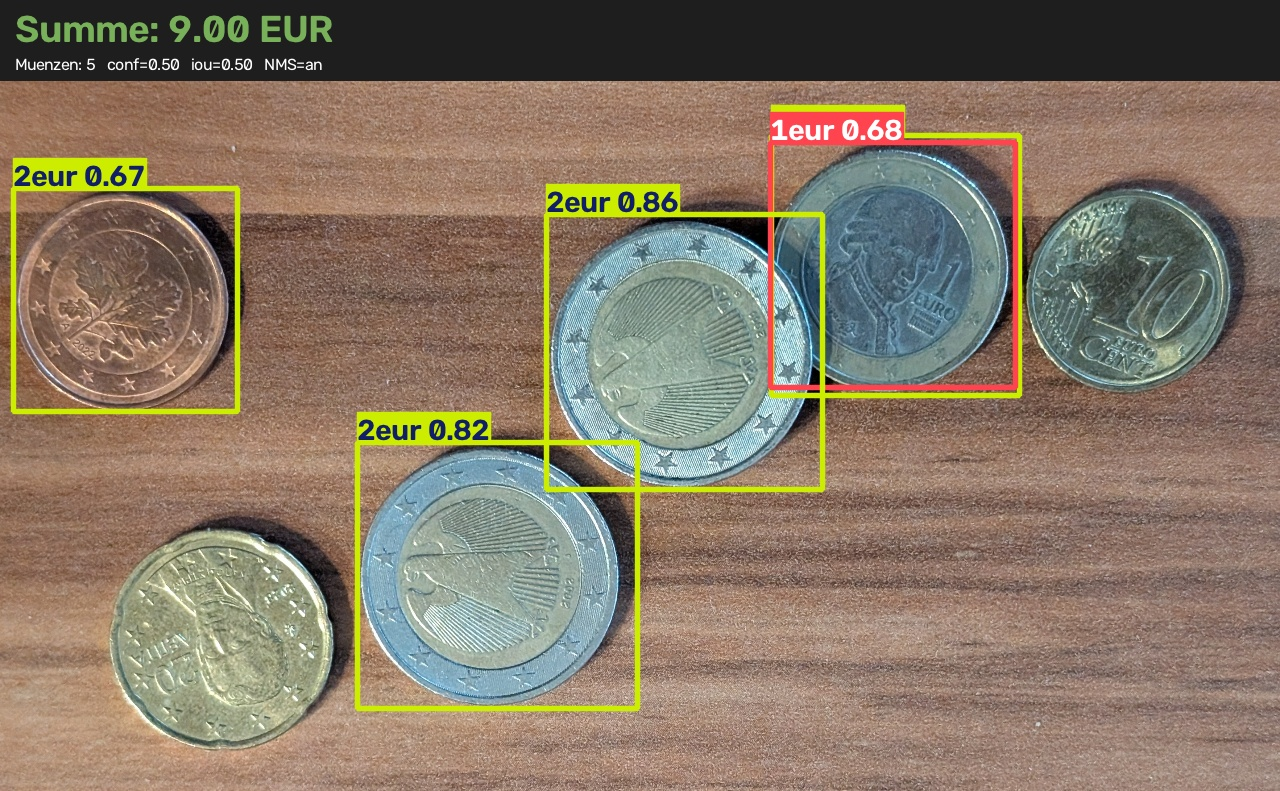
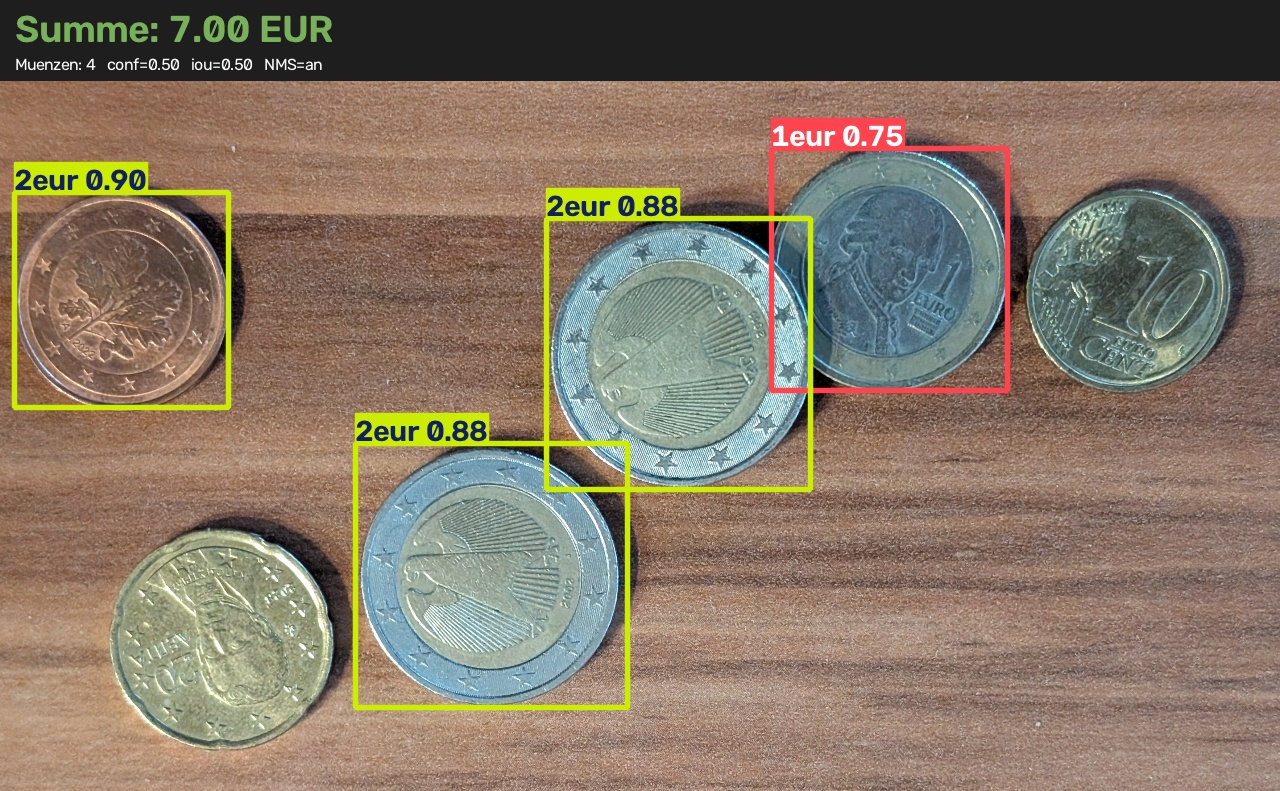
mit nootebook ergebnissen

diff --git a/Objekterkennung.tex b/Objekterkennung.tex
@@ -1884,7 +1884,7 @@ results = model.train(
 \centering
 \includegraphics[width=0.95\linewidth]{figures/yolo_results.png}
 
-\scriptsize Verlauf beim Training auf dem Münzdatensatz, 10 Epochen
+\scriptsize Verlauf beim Training auf dem Münzdatensatz, 50 Epochen auf einer GPU
 \end{column}
 \end{columns}
 \end{frame}
@@ -1933,7 +1933,7 @@ results = model.train(
     \item Etwa \textbf{4,5 Minuten pro Epoche}, rund 6\,GB Arbeitsspeicher bei \texttt{batch=16}
     \item 50 Epochen dauern damit fast vier Stunden.
   \end{itemize}
-  \item Mit einer GPU, z.\,B. in Google Colab, geht es um ein \textbf{Vielfaches} schneller.
+  \item Mit GPU: \textbf{50 Epochen in gut 3 Minuten}, also rund 4 Sekunden pro Epoche
   \item Stellschrauben bei wenig Rechenleistung:
   \begin{itemize}
     \item Kleineres Modell (\texttt{n} statt \texttt{s})
@@ -2199,6 +2199,7 @@ metrics.box.maps    # je Klasse
 }
 \begin{itemize}
   \item \texttt{split="test"}: ungesehene Testdaten
+  \item Unser Modell: mAP@0.5 von 0,82 auf den Validierungsdaten, aber nur 0,65 auf den Testdaten
 \end{itemize}
 \end{column}
 \begin{column}{0.48\textwidth}
@@ -2222,7 +2223,7 @@ metrics.box.maps    # je Klasse
   \item Für die KI-Kasse zählt: Ist die \textbf{Summe} pro Bild richtig?
   \item Ein einziger Fehlalarm oder eine übersehene Münze macht das Ergebnis falsch.
   \item Der Schwellenwert \texttt{conf} wird so gewählt, dass möglichst viele Beträge stimmen.
-  \item Unser Test: mAP@0.5 von 0,49, aber nur bei \textbf{19 von 71} Testbildern mit Münzen stimmt der Betrag exakt.
+  \item Unser Test: mAP@0.5 von 0,65, aber nur bei \textbf{36 von 71} Testbildern mit Münzen stimmt der Betrag exakt.
 \end{itemize}
 \end{column}
 \begin{column}{0.48\textwidth}
@@ -2317,9 +2318,9 @@ for r in model.predict(source=0,
 \begin{itemize}
   \item Das Foto stammt nicht aus dem Datensatz: anderer Untergrund, andere Kamera, andere Beleuchtung.
   \item Die beiden 2-€-Münzen und die 1-€-Münze werden erkannt.
-  \item 20 ct und 10 ct werden übersehen, die Kupfermünze wird als 2\,€ erkannt.
-  \item Auf der 1-€-Münze liegen zwei Boxen mit verschiedenen Klassen. NMS läuft pro Klasse und entfernt keine davon.
-  \item Ergebnis: 9,00\,€ statt rund 5,30\,€, ein typischer Domain Shift.
+  \item 20 ct und 10 ct werden übersehen, die Kupfermünze wird mit Confidence 0,90 als 2\,€ erkannt.
+  \item Ergebnis: 7,00\,€ statt rund 5,30\,€, ein typischer Domain Shift.
+  \item Abhilfe: eigene Fotos mit diesem Untergrund und dieser Kamera ins Training aufnehmen.
 \end{itemize}
 }
 \end{column}
@@ -2327,7 +2328,7 @@ for r in model.predict(source=0,
 \centering
 \includegraphics[width=0.9\linewidth]{figures/yolo_kikasse.jpg}
 
-\scriptsize Eigenes Foto, nicht aus dem Datensatz: 9,00\,€ statt rund 5,30\,€
+\scriptsize Eigenes Foto, nicht aus dem Datensatz: 7,00\,€ statt rund 5,30\,€
 \end{column}
 \end{columns}
 \end{frame}
@@ -2359,7 +2360,7 @@ iPhone, Mac & \texttt{coreml} \\
 \end{tabular}
 
 \vspace{0.8em}
-Unser Test auf einer CPU: PyTorch 81\,ms, ONNX 68\,ms pro Bild
+Unser Test auf einer CPU: PyTorch 84\,ms, ONNX 63\,ms pro Bild
 \end{column}
 \end{columns}
 \source{\cite{ultralytics_export, ultralytics_yolo26}}
